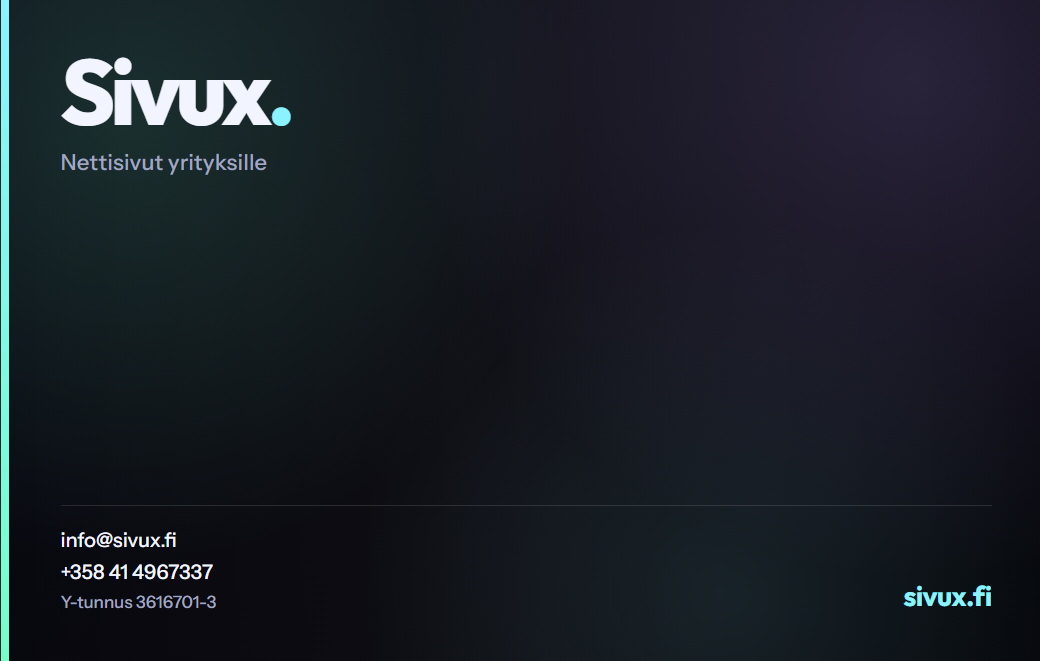
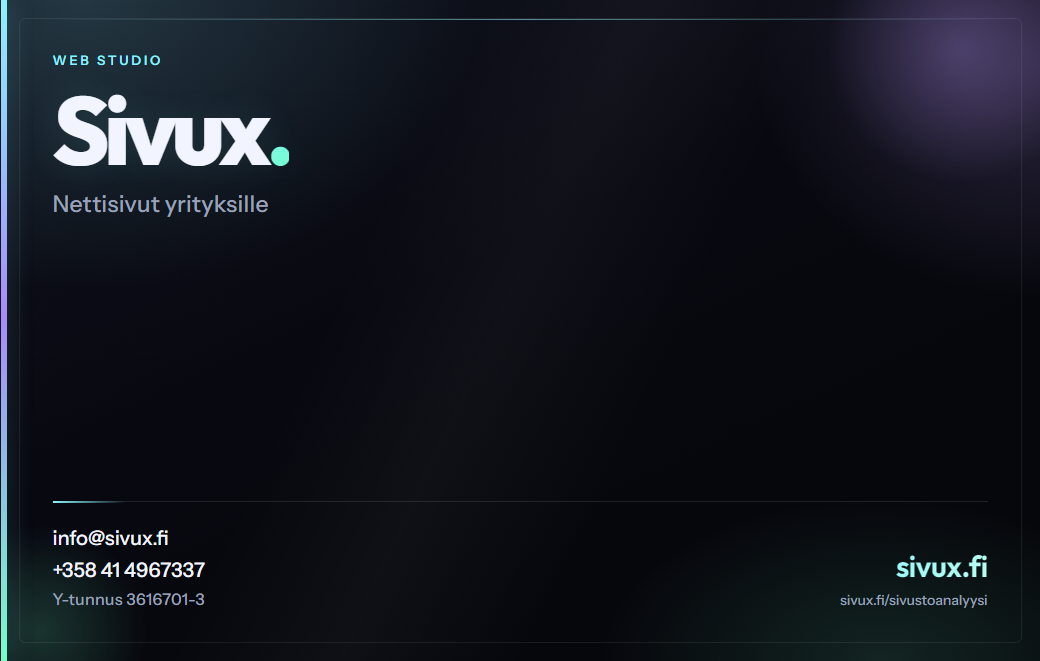
Hienonna kayntikorttia ja vaihda hinta ilmaiseen analyysiin.

diff --git a/print/kayntikortti.html b/print/kayntikortti.html
@@ -6,7 +6,7 @@
   <link rel="preconnect" href="https://fonts.googleapis.com" />
   <link rel="preconnect" href="https://fonts.gstatic.com" crossorigin />
   <link
-    href="https://fonts.googleapis.com/css2?family=Instrument+Sans:wght@400;500;600;700&family=Outfit:wght@500;600;700;800&display=swap"
+    href="https://fonts.googleapis.com/css2?family=Instrument+Sans:wght@400;500;600;700&family=Outfit:wght@400;500;600;700;800&display=swap"
     rel="stylesheet"
   />
   <style>
@@ -16,10 +16,10 @@
       --h: 661px;
       --bg: #07070d;
       --text: #f2f4ff;
-      --muted: #a2a7c1;
+      --muted: #9aa1b8;
       --accent: #8af3ff;
       --accent-3: #73ffca;
-      --safe: 48px; /* ~4 mm safety margin */
+      --safe: 52px;
     }
 
     * {
@@ -29,21 +29,22 @@
     }
 
     body {
-      background: #222;
+      background: #1a1b22;
       font-family: "Instrument Sans", system-ui, sans-serif;
       color: var(--text);
       display: flex;
       flex-direction: column;
       align-items: center;
-      gap: 24px;
-      padding: 32px;
+      gap: 28px;
+      padding: 36px;
       min-height: 100vh;
     }
 
     .label {
-      color: #aaa;
-      font-size: 13px;
-      letter-spacing: 0.04em;
+      color: #8b90a0;
+      font-size: 12px;
+      letter-spacing: 0.08em;
+      text-transform: uppercase;
     }
 
     .card {
@@ -51,22 +52,84 @@
       width: var(--w);
       height: var(--h);
       overflow: hidden;
-      background:
-        radial-gradient(circle at 12% 18%, rgba(115, 255, 202, 0.14), transparent 42%),
-        radial-gradient(circle at 88% 12%, rgba(187, 155, 255, 0.18), transparent 46%),
-        radial-gradient(circle at 70% 90%, rgba(138, 243, 255, 0.1), transparent 40%),
-        linear-gradient(145deg, #0b0d16 0%, #07070d 55%, #05060a 100%);
+      background: #07070d;
       color: var(--text);
       -webkit-font-smoothing: antialiased;
+      box-shadow: 0 24px 60px rgba(0, 0, 0, 0.45);
     }
 
-    .card::before {
-      content: "";
+    .card-bg {
       position: absolute;
       inset: 0;
       background:
-        linear-gradient(90deg, transparent 0%, rgba(255, 255, 255, 0.03) 50%, transparent 100%);
+        radial-gradient(ellipse 70% 80% at 8% 0%, rgba(138, 243, 255, 0.16), transparent 55%),
+        radial-gradient(ellipse 55% 70% at 100% 10%, rgba(187, 155, 255, 0.2), transparent 50%),
+        radial-gradient(ellipse 50% 45% at 85% 100%, rgba(115, 255, 202, 0.12), transparent 55%),
+        linear-gradient(155deg, #10131f 0%, #080910 42%, #05060a 100%);
+    }
+
+    .card-grid {
+      position: absolute;
+      inset: 0;
+      opacity: 0.22;
+      background-image:
+        linear-gradient(rgba(255, 255, 255, 0.035) 1px, transparent 1px),
+        linear-gradient(90deg, rgba(255, 255, 255, 0.035) 1px, transparent 1px);
+      background-size: 44px 44px;
+      mask-image: linear-gradient(120deg, rgba(0, 0, 0, 0.85), transparent 70%);
+    }
+
+    .card-orb {
+      position: absolute;
+      border-radius: 50%;
+      filter: blur(2px);
       pointer-events: none;
+    }
+
+    .card-orb-a {
+      width: 280px;
+      height: 280px;
+      right: -60px;
+      top: -90px;
+      background: radial-gradient(circle, rgba(187, 155, 255, 0.28), transparent 68%);
+    }
+
+    .card-orb-b {
+      width: 220px;
+      height: 220px;
+      left: -70px;
+      bottom: -80px;
+      background: radial-gradient(circle, rgba(115, 255, 202, 0.18), transparent 70%);
+    }
+
+    .card-shine {
+      position: absolute;
+      inset: 0;
+      background: linear-gradient(
+        115deg,
+        transparent 35%,
+        rgba(255, 255, 255, 0.035) 48%,
+        transparent 62%
+      );
+      pointer-events: none;
+    }
+
+    .card-frame {
+      position: absolute;
+      inset: 18px;
+      border: 1px solid rgba(255, 255, 255, 0.08);
+      border-radius: 6px;
+      pointer-events: none;
+    }
+
+    .card-frame::after {
+      content: "";
+      position: absolute;
+      left: 22px;
+      right: 22px;
+      top: 0;
+      height: 1px;
+      background: linear-gradient(90deg, transparent, rgba(138, 243, 255, 0.55), transparent);
     }
 
     .card-accent {
@@ -74,72 +137,113 @@
       left: 0;
       top: 0;
       bottom: 0;
-      width: 8px;
-      background: linear-gradient(180deg, var(--accent) 0%, var(--accent-3) 100%);
+      width: 6px;
+      background: linear-gradient(180deg, var(--accent) 0%, #a78bfa 48%, var(--accent-3) 100%);
+      box-shadow: 0 0 24px rgba(138, 243, 255, 0.35);
     }
 
     .card-inner {
       position: relative;
-      z-index: 1;
+      z-index: 2;
       height: 100%;
-      padding: var(--safe) var(--safe) var(--safe) calc(var(--safe) + 12px);
+      padding: var(--safe);
       display: flex;
       flex-direction: column;
       justify-content: space-between;
     }
 
+    .kicker {
+      font-size: 13px;
+      font-weight: 600;
+      letter-spacing: 0.22em;
+      text-transform: uppercase;
+      color: var(--accent);
+      margin-bottom: 18px;
+    }
+
     .brand {
       font-family: "Outfit", system-ui, sans-serif;
       font-weight: 800;
-      font-size: 92px;
-      letter-spacing: -0.055em;
-      line-height: 0.95;
+      font-size: 96px;
+      letter-spacing: -0.06em;
+      line-height: 0.92;
       color: var(--text);
+      text-shadow: 0 0 40px rgba(138, 243, 255, 0.12);
     }
 
     .brand span {
-      color: var(--accent);
+      background: linear-gradient(135deg, var(--accent), var(--accent-3));
+      -webkit-background-clip: text;
+      background-clip: text;
+      color: transparent;
     }
 
     .tagline {
-      margin-top: 14px;
-      font-size: 22px;
+      margin-top: 16px;
+      font-size: 23px;
       font-weight: 500;
       color: var(--muted);
       letter-spacing: 0.01em;
+      max-width: 16ch;
     }
 
     .meta {
       display: flex;
       justify-content: space-between;
       align-items: flex-end;
-      gap: 24px;
-      border-top: 1px solid rgba(255, 255, 255, 0.12);
-      padding-top: 22px;
+      gap: 28px;
+      border-top: 1px solid rgba(255, 255, 255, 0.1);
+      padding-top: 24px;
+      position: relative;
+    }
+
+    .meta::before {
+      content: "";
+      position: absolute;
+      left: 0;
+      top: -1px;
+      width: 72px;
+      height: 2px;
+      background: linear-gradient(90deg, var(--accent), transparent);
     }
 
     .contacts {
       display: grid;
-      gap: 7px;
+      gap: 8px;
       font-size: 20px;
       font-weight: 500;
       color: var(--text);
-      line-height: 1.25;
+      line-height: 1.2;
     }
 
     .contacts .muted {
       color: var(--muted);
-      font-size: 17px;
+      font-size: 16px;
       font-weight: 500;
+      letter-spacing: 0.02em;
+    }
+
+    .domain-wrap {
+      text-align: right;
     }
 
     .domain {
       font-family: "Outfit", system-ui, sans-serif;
       font-weight: 700;
-      font-size: 28px;
-      letter-spacing: -0.02em;
-      color: var(--accent);
+      font-size: 30px;
+      letter-spacing: -0.03em;
+      background: linear-gradient(120deg, var(--accent), #b8fff0);
+      -webkit-background-clip: text;
+      background-clip: text;
+      color: transparent;
       white-space: nowrap;
+    }
+
+    .domain-note {
+      margin-top: 6px;
+      font-size: 14px;
+      color: var(--muted);
+      font-weight: 500;
     }
 
     /* Back */
@@ -147,33 +251,79 @@
       align-items: center;
       justify-content: center;
       text-align: center;
-      padding-left: var(--safe);
+      gap: 0;
+    }
+
+    .card--back .kicker {
+      margin-bottom: 20px;
     }
 
     .card--back .brand {
-      font-size: 110px;
+      font-size: 108px;
     }
 
     .card--back .tagline {
-      margin-top: 18px;
+      margin-top: 22px;
+      max-width: none;
       font-size: 24px;
+      color: #c5cad9;
+    }
+
+    .card--back .pill {
+      margin-top: 28px;
+      display: inline-flex;
+      align-items: center;
+      gap: 10px;
+      padding: 12px 22px;
+      border-radius: 999px;
+      border: 1px solid rgba(138, 243, 255, 0.28);
+      background: linear-gradient(
+        135deg,
+        rgba(138, 243, 255, 0.1),
+        rgba(115, 255, 202, 0.06)
+      );
+      font-size: 18px;
+      font-weight: 600;
+      color: var(--text);
+      letter-spacing: 0.01em;
+    }
+
+    .card--back .pill-dot {
+      width: 8px;
+      height: 8px;
+      border-radius: 50%;
+      background: linear-gradient(135deg, var(--accent), var(--accent-3));
+      box-shadow: 0 0 12px rgba(138, 243, 255, 0.7);
     }
 
     .card--back .card-accent {
       width: 100%;
-      height: 8px;
+      height: 5px;
       top: auto;
       bottom: 0;
-      background: linear-gradient(90deg, var(--accent) 0%, var(--accent-3) 100%);
+      background: linear-gradient(90deg, var(--accent), #a78bfa, var(--accent-3));
+      box-shadow: 0 0 28px rgba(138, 243, 255, 0.3);
+    }
+
+    .card--back .card-frame::after {
+      top: auto;
+      bottom: 0;
     }
   </style>
 </head>
 <body>
   <p class="label">Etupuoli · 88 × 56 mm · 300 DPI</p>
   <div class="card" id="card-front">
+    <div class="card-bg"></div>
+    <div class="card-grid"></div>
+    <div class="card-orb card-orb-a"></div>
+    <div class="card-orb card-orb-b"></div>
+    <div class="card-shine"></div>
     <div class="card-accent"></div>
+    <div class="card-frame"></div>
     <div class="card-inner">
       <div>
+        <p class="kicker">Web studio</p>
         <div class="brand">Sivux<span>.</span></div>
         <p class="tagline">Nettisivut yrityksille</p>
       </div>
@@ -183,18 +333,32 @@
           <div>+358 41 4967337</div>
           <div class="muted">Y-tunnus 3616701-3</div>
         </div>
-        <div class="domain">sivux.fi</div>
+        <div class="domain-wrap">
+          <div class="domain">sivux.fi</div>
+          <div class="domain-note">sivux.fi/sivustoanalyysi</div>
+        </div>
       </div>
     </div>
   </div>
 
   <p class="label">Takapuoli · 88 × 56 mm · 300 DPI</p>
   <div class="card card--back" id="card-back">
+    <div class="card-bg"></div>
+    <div class="card-grid"></div>
+    <div class="card-orb card-orb-a"></div>
+    <div class="card-orb card-orb-b"></div>
+    <div class="card-shine"></div>
     <div class="card-accent"></div>
+    <div class="card-frame"></div>
     <div class="card-inner">
       <div>
+        <p class="kicker">Sivux</p>
         <div class="brand">Sivux<span>.</span></div>
-        <p class="tagline">Julkaisu 10 arkipäivässä · alk. 500 €</p>
+        <p class="tagline">Modernit nettisivut, jotka tuovat liidejä.</p>
+        <div class="pill">
+          <span class="pill-dot"></span>
+          Ilmainen nettisivuanalyysi
+        </div>
       </div>
     </div>
   </div>
